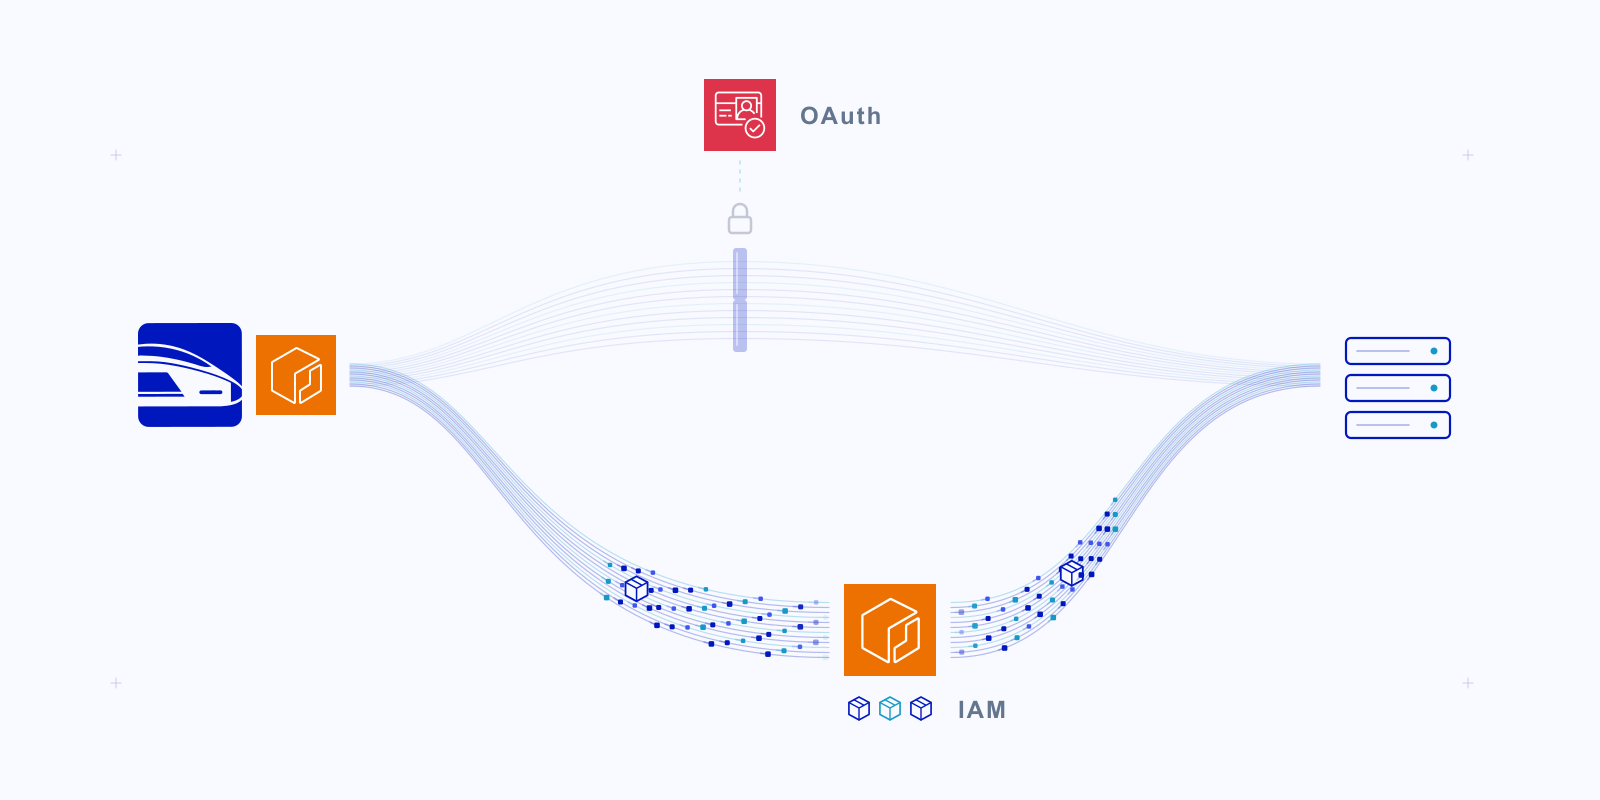
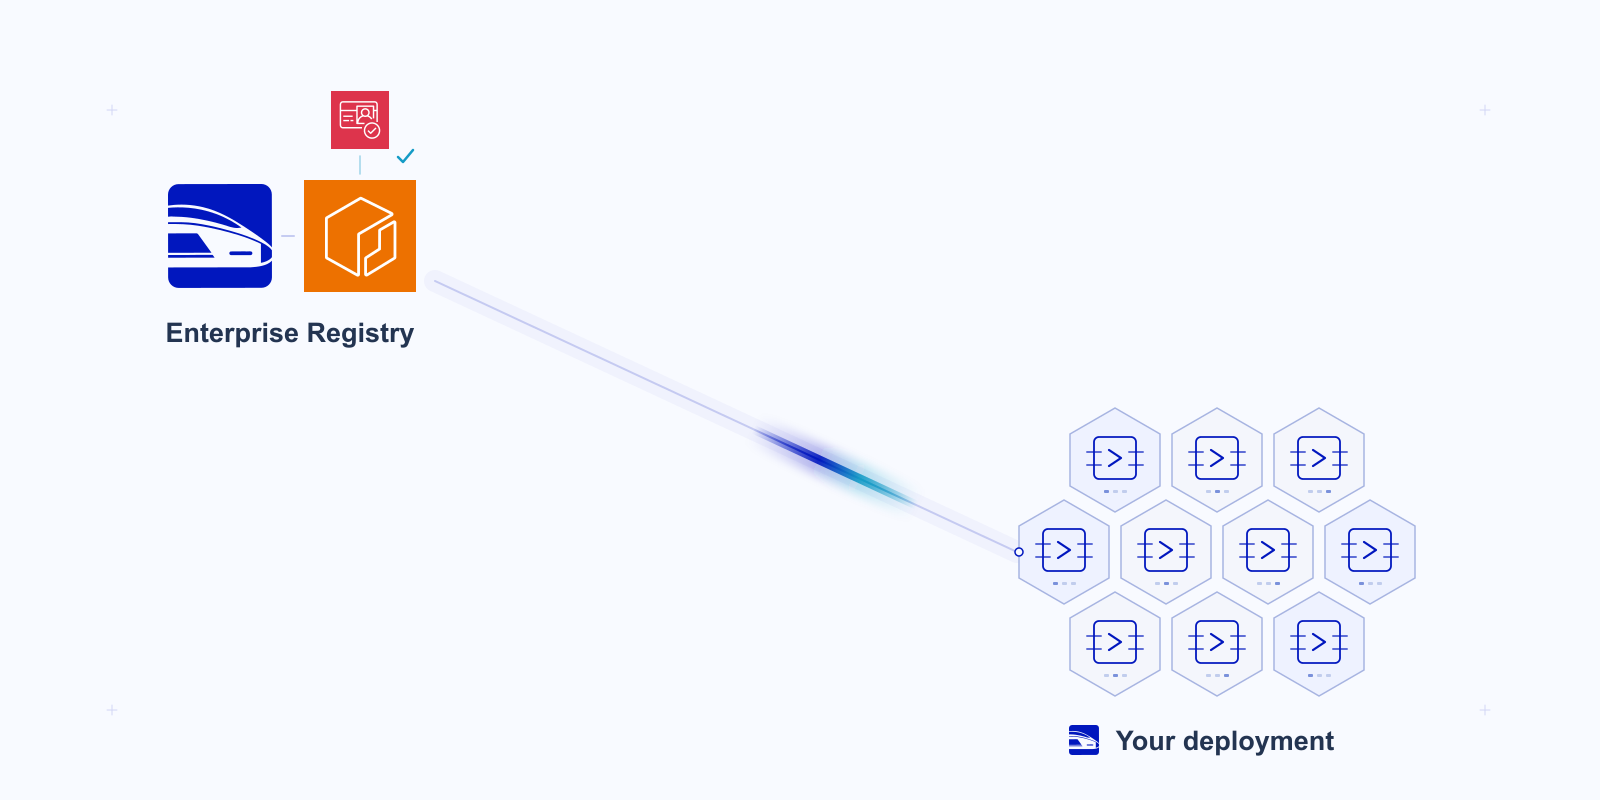
docs(blog): show a single image pull to gateway pods

diff --git a/blog/litellm_enterprise_registry/RegistryHero.js b/blog/litellm_enterprise_registry/RegistryHero.js
@@ -17,7 +17,7 @@ export default function RegistryHero() {
           src={imageUrl(paused ? poster : animation)}
           width="1600"
           height="800"
-          alt="The LiteLLM Enterprise Registry runs on Amazon ECR. An OAuth token from Cognito is exchanged through the registry credentials API for direct package pulls. A separate IAM route fills your Amazon ECR cache and serves later pulls from the cached copy."
+          alt="A single pulsing beam carries an image from LiteLLM's ECR Enterprise Registry at the upper left to one gateway pod in a customer deployment mosaic at the lower right. Cognito represents OAuth access."
         />
       </picture>
       <button type="button" className={styles.control} onClick={() => setPaused(value => !value)}>

diff --git a/blog/litellm_enterprise_registry/animation/README.md b/blog/litellm_enterprise_registry/animation/README.md
@@ -1,10 +1,10 @@
 # Enterprise Registry animation
 
-A 1600 by 800, 10-second GIF at 25 fps. Two flowing ribbons of packages, a splitting access shutter, and retained cache copies tell the story with only two labels: OAuth and IAM. The composition takes its motion cues from the Rust router and prompt-latency covers, with the cobalt and cyan palette of cache-aware routing. Official logos stand directly on a light canvas.
+A 1600 by 800, 8-second GIF at 25 fps. The Enterprise Registry forms a cohesive group in the upper left, and a mosaic of customer gateway pods anchors the lower right. One diagonal beam pulse represents one image pull. Only the receiving pod acknowledges arrival; the other workloads stay still. Official logos stand directly on a light canvas.
 
-Cognito's key gesture represents the OAuth access exchange: Cognito supplies an OAuth token, which the registry credentials API exchanges for temporary ECR credentials. The shutter opens and queued packages join a continuous stream from LiteLLM's ECR. The lower ribbon independently fills the customer's ECR cache; three package copies remain visible while the cache serves repeated downstream pulls. ECR pull-through does not pass through Cognito. The LiteLLM and ECR source logos are paired because the Enterprise Registry itself runs on ECR.
+Cognito represents OAuth access: its token is exchanged through the registry credentials API for temporary ECR credentials. The LiteLLM and ECR source logos are paired because the Enterprise Registry itself runs on ECR. The customer mosaic uses generic gateway symbols, with the LiteLLM logo beside the deployment caption. The cover focuses on image access; the article explains both OAuth and ECR pull-through access options.
 
-This is an illustrative access flow, not a literal network trace or performance measurement. The direct-access exchange is simplified; the customer access guide documents the OAuth and registry-credential exchanges.
+The beam represents an individual image pull. It does not depict throughput, request volume, or measured transfer speed. The direct-access exchange is simplified; the customer access guide documents the OAuth and registry-credential exchanges.
 
 Install Node.js, FFmpeg, and the pinned renderer dependency, then run from this directory:
 
